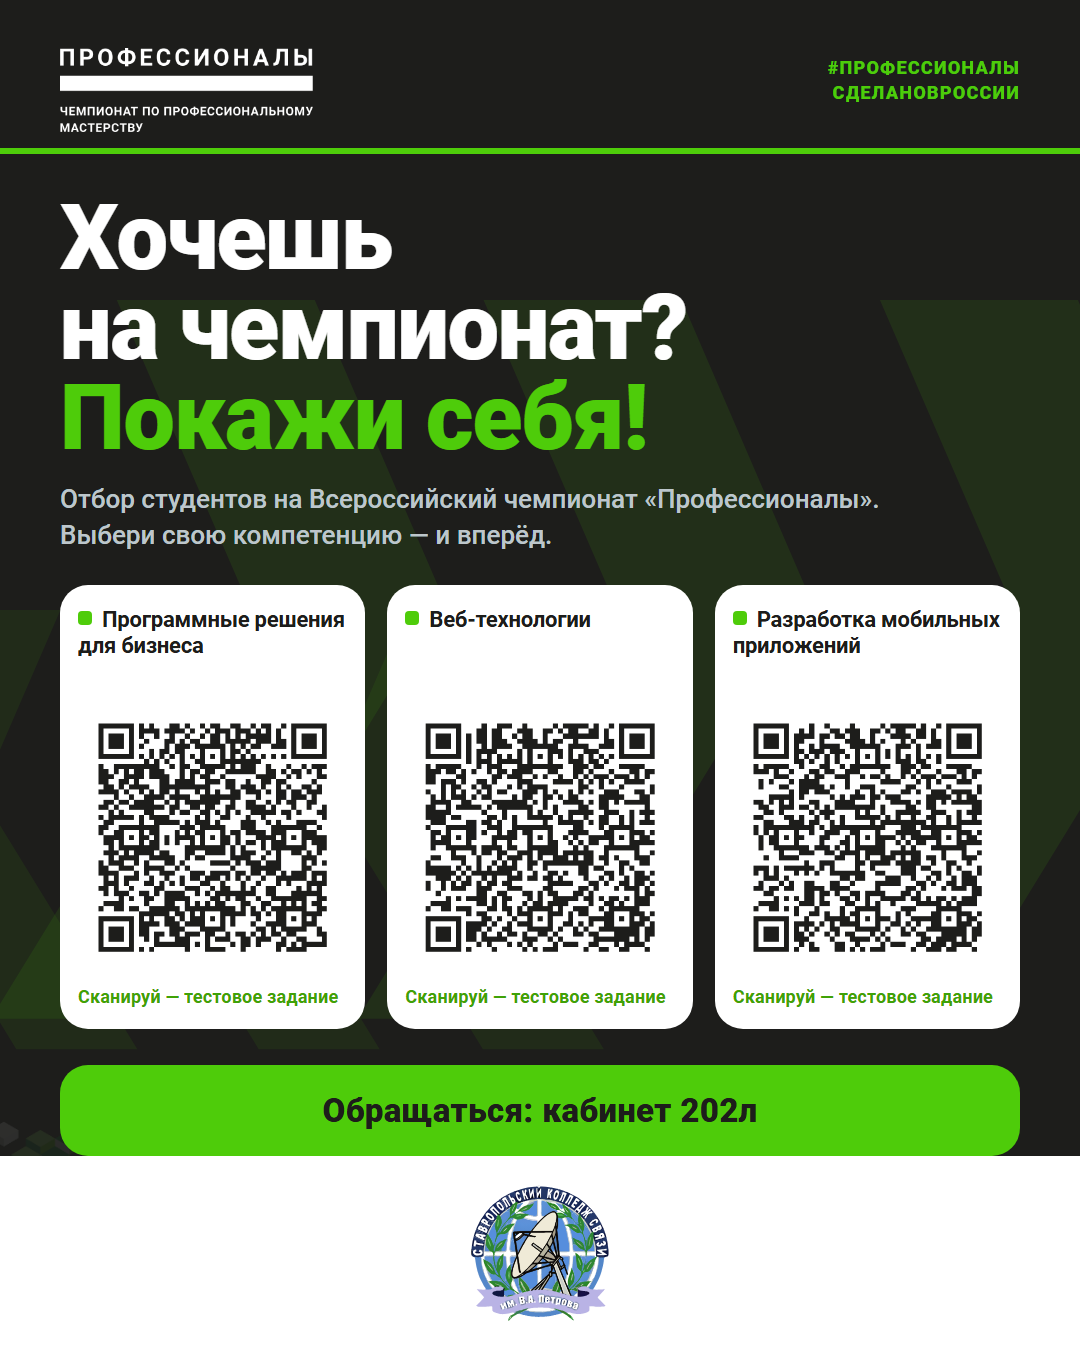
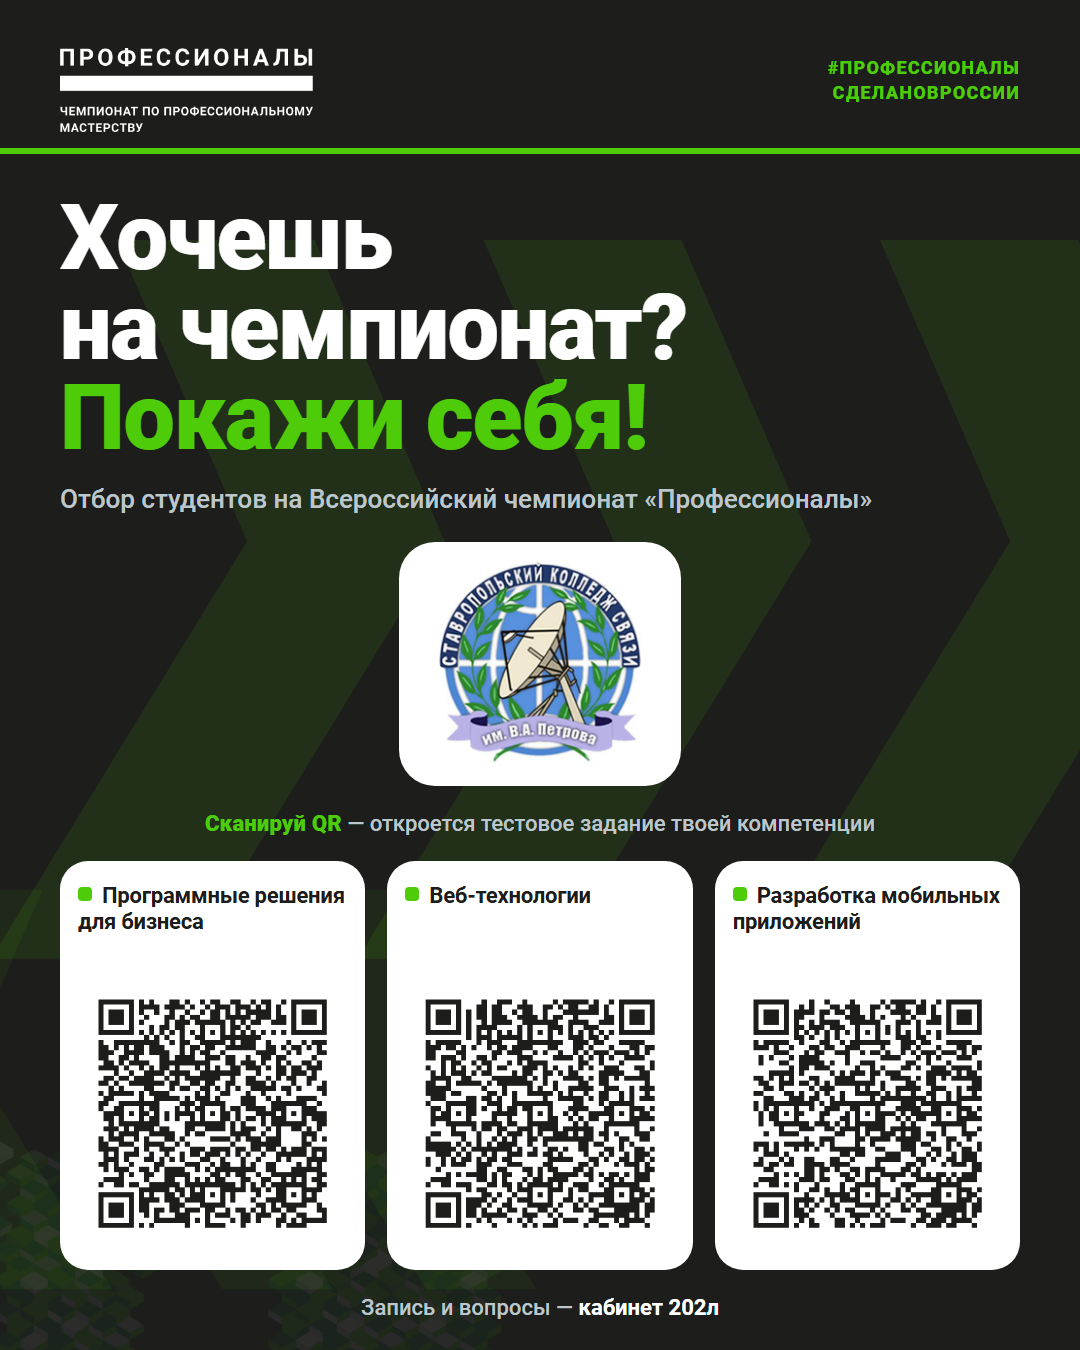
docs(professionals): правки постера по ревью — эмблема колледжа по центру
- эмблема колледжа вырезана из растра и размещена по центру постера в белой плашке (вместо нижней белой полосы)
- единая подсказка «Сканируй QR — откроется тестовое задание твоей компетенции» вместо трёх повторов в карточках
- контакты («кабинет 202л») — компактная строка внизу вместо крупной зелёной плашки
- QR-коды перепроверены декодированием с финального PNG (1080×1350)

diff --git a/docs/professionals/poster.html b/docs/professionals/poster.html
@@ -25,9 +25,9 @@
 
   /* --- Декор: шевроны и паттерн кубов --- */
   .decor { position:absolute; pointer-events:none; z-index:0; }
-  .decor--chevrons-r { right:-64px; top:150px; height:360px; opacity:.10; }
-  .decor--chevrons-l { left:-70px; bottom:150px; height:220px; opacity:.08; transform:scaleX(-1); }
-  .decor--cubes { left:-30px; bottom:-40px; width:320px; opacity:.08; }
+  .decor--chevrons-r { right:-64px; top:120px; height:360px; opacity:.10; }
+  .decor--chevrons-l { left:-70px; bottom:30px; height:200px; opacity:.07; transform:scaleX(-1); }
+  .decor--cubes { left:-30px; bottom:-40px; width:300px; opacity:.07; }
 
   /* --- Сетка постера --- */
   .page {
@@ -58,17 +58,27 @@
   .sub {
     margin-top:10px;
     color:#BDC6CB; font-weight:500; font-size:13px; line-height:1.35;
-    max-width:415px;
   }
 
+  /* --- Центральный знак: эмблема колледжа --- */
+  .brandmark {
+    margin:12px auto 0; width:fit-content;
+    background:#fff; border-radius:18px;
+    padding:10px 20px;
+    display:flex; align-items:center; justify-content:center;
+  }
+  .brandmark img { height:102px; display:block; }
+
+  /* --- Единая подпись для всех QR --- */
+  .hint { margin-top:12px; text-align:center; color:#BDC6CB; font-weight:500; font-size:11px; }
+  .hint b { color:#4ECC0A; font-weight:900; letter-spacing:.01em; }
+
   /* --- Карточки компетенций --- */
-  .cards { margin-top:16px; display:flex; gap:11px; }
+  .cards { margin-top:12px; display:flex; gap:11px; }
   .card {
     position:relative; flex:1 1 0; min-width:0;
     background:#fff; color:#1D1D1B;
-    border-radius:14px; padding:11px 9px 10px;
-    display:flex; flex-direction:column;
-    overflow:hidden;
+    border-radius:14px; padding:11px 9px 11px;
   }
   .card h3 {
     font-weight:700; font-size:11px; line-height:1.22; letter-spacing:-.01em;
@@ -79,29 +89,10 @@
     background:#4ECC0A; margin-right:5px; vertical-align:1px;
   }
   .card .qr { width:100%; height:auto; display:block; margin-top:7px; border-radius:4px; }
-  .card .cap {
-    margin-top:7px;
-    color:#3FA207; font-weight:700; font-size:9px; line-height:1.25;
-    letter-spacing:.01em;
-  }
 
-  /* --- CTA --- */
-  .cta {
-    margin-top:18px;
-    background:#4ECC0A; color:#1D1D1B;
-    border-radius:14px; padding:13px 18px;
-    font-weight:900; font-size:16.5px; letter-spacing:.01em;
-    text-align:center;
-  }
-
-  /* --- Нижняя белая полоса: эмблема колледжа --- */
-  footer {
-    margin-top:auto; margin-left:-30px; margin-right:-30px;
-    height:128px;
-    background:#fff;
-    display:flex; align-items:center; justify-content:center;
-  }
-  footer img { height:88px; display:block; }
+  /* --- Контакты: компактная строка --- */
+  .contact { margin-top:12px; text-align:center; color:#BDC6CB; font-weight:500; font-size:11px; }
+  .contact b { color:#fff; font-weight:700; }
 </style>
 </head>
 <body>
@@ -117,31 +108,30 @@
     </header>
 
     <h1>Хочешь на&nbsp;чемпионат?<br><span class="accent">Покажи себя!</span></h1>
-    <p class="sub">Отбор студентов на Всероссийский чемпионат «Профессионалы». Выбери свою компетенцию — и вперёд.</p>
+    <p class="sub">Отбор студентов на Всероссийский чемпионат «Профессионалы»</p>
+
+    <div class="brandmark">
+      <img src="assets/college-emblem.png" alt="Ставропольский колледж связи им. В.А. Петрова">
+    </div>
+
+    <div class="hint"><b>Сканируй QR</b> — откроется тестовое задание твоей компетенции</div>
 
     <div class="cards">
       <div class="card">
         <h3><span class="dot"></span>Программные решения для бизнеса</h3>
         <img class="qr" src="qr/qr-programmnye-resheniya.png" alt="QR: тестовое задание — Программные решения для бизнеса">
-        <div class="cap">Сканируй — тестовое задание</div>
       </div>
       <div class="card">
         <h3><span class="dot"></span>Веб-технологии</h3>
         <img class="qr" src="qr/qr-veb-tehnologii.png" alt="QR: тестовое задание — Веб-технологии">
-        <div class="cap">Сканируй — тестовое задание</div>
       </div>
       <div class="card">
         <h3><span class="dot"></span>Разработка мобильных приложений</h3>
         <img class="qr" src="qr/qr-mobilnye-prilozheniya.png" alt="QR: тестовое задание — Разработка мобильных приложений">
-        <div class="cap">Сканируй — тестовое задание</div>
       </div>
     </div>
 
-    <div class="cta">Обращаться: кабинет 202л</div>
-
-    <footer>
-      <img src="assets/college-logo.svg" alt="Ставропольский колледж связи им. В.А. Петрова">
-    </footer>
+    <div class="contact">Запись и вопросы — <b>кабинет 202л</b></div>
   </div>
 </body>
 </html>
